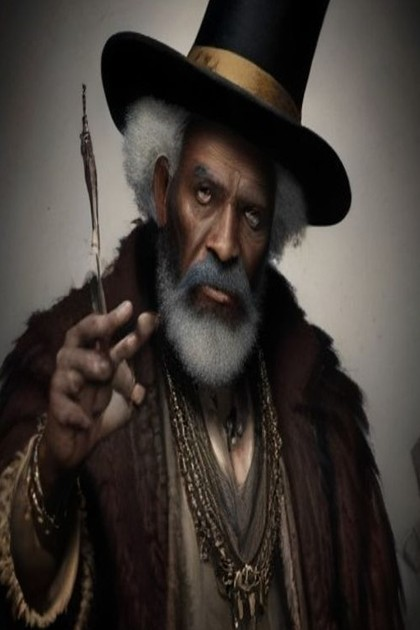
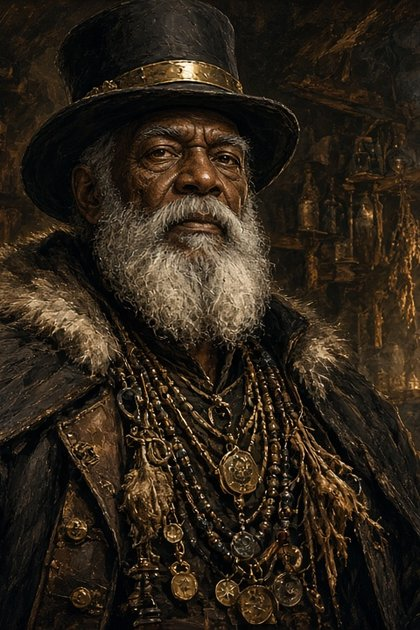
Rename High John to Papa John; upgrade card art
Papa John buffs allied powder rites while on the field:
Goofer Dust +2 damage; Hot-Foot Powder also deals 2.

diff --git a/src/game/effects.test.ts b/src/game/effects.test.ts
@@ -2,6 +2,7 @@ import { describe, expect, it } from 'vitest';
 import {
   actNeedsAim,
   resolveActivatedAbility,
+  resolveEffect,
   type EffectCtx,
   type EffectUnit,
 } from './effects';
@@ -349,5 +350,149 @@ describe('resolveActivatedAbility', () => {
     expect(ctx.units['b']).toBeUndefined();
     expect(ctx.units['wail']).toBeDefined();
     expect(ctx.loyalty.blue).toBe(0);
+  });
+});
+
+
+describe('Papa John powder synergy', () => {
+  it('Goofer Dust deals 3 without Papa John and 5 with allied Papa John', () => {
+    const dust = cardById('goofer_dust');
+    expect(dust?.effect?.op).toBe('smite');
+    expect(dust?.effect?.n).toBe(3);
+
+    const alone = baseCtx('blue');
+    place(
+      alone,
+      unit({
+        uid: 'foe',
+        cardId: 'fodder',
+        name: 'Fodder',
+        side: 'red',
+        power: 10,
+      }),
+      2,
+      2,
+    );
+    expect(
+      resolveEffect(alone, dust!.effect!, { id: dust!.id, name: dust!.name }, 'foe'),
+    ).toBeNull();
+    expect(alone.units['foe'].power).toBe(7);
+
+    const withJohn = baseCtx('blue');
+    place(
+      withJohn,
+      unit({
+        uid: 'john',
+        cardId: 'high_john',
+        name: 'Papa John',
+        side: 'blue',
+        power: 2,
+      }),
+      0,
+      0,
+    );
+    place(
+      withJohn,
+      unit({
+        uid: 'foe',
+        cardId: 'fodder',
+        name: 'Fodder',
+        side: 'red',
+        power: 10,
+      }),
+      2,
+      2,
+    );
+    expect(
+      resolveEffect(withJohn, dust!.effect!, { id: dust!.id, name: dust!.name }, 'foe'),
+    ).toBeNull();
+    expect(withJohn.units['foe'].power).toBe(5);
+  });
+
+  it('Hot-Foot Powder locks only without Papa John; with him also deals 2', () => {
+    const powder = cardById('hot_foot_powder');
+    expect(powder?.effect?.op).toBe('lock');
+
+    const alone = baseCtx('blue');
+    place(
+      alone,
+      unit({
+        uid: 'foe',
+        cardId: 'fodder',
+        name: 'Fodder',
+        side: 'red',
+        power: 6,
+      }),
+      2,
+      2,
+    );
+    expect(
+      resolveEffect(alone, powder!.effect!, { id: powder!.id, name: powder!.name }, 'foe'),
+    ).toBeNull();
+    expect(alone.units['foe'].sick).toBe(true);
+    expect(alone.units['foe'].powder).toBe(true);
+    expect(alone.units['foe'].power).toBe(6);
+
+    const withJohn = baseCtx('blue');
+    place(
+      withJohn,
+      unit({
+        uid: 'john',
+        cardId: 'high_john',
+        name: 'Papa John',
+        side: 'blue',
+        power: 2,
+      }),
+      0,
+      0,
+    );
+    place(
+      withJohn,
+      unit({
+        uid: 'foe',
+        cardId: 'fodder',
+        name: 'Fodder',
+        side: 'red',
+        power: 6,
+      }),
+      2,
+      2,
+    );
+    expect(
+      resolveEffect(withJohn, powder!.effect!, { id: powder!.id, name: powder!.name }, 'foe'),
+    ).toBeNull();
+    expect(withJohn.units['foe'].sick).toBe(true);
+    expect(withJohn.units['foe'].power).toBe(4);
+  });
+
+  it('enemy Papa John does not buff your powders', () => {
+    const dust = cardById('goofer_dust')!;
+    const ctx = baseCtx('blue');
+    place(
+      ctx,
+      unit({
+        uid: 'john',
+        cardId: 'high_john',
+        name: 'Papa John',
+        side: 'red',
+        power: 2,
+      }),
+      0,
+      0,
+    );
+    place(
+      ctx,
+      unit({
+        uid: 'foe',
+        cardId: 'fodder',
+        name: 'Fodder',
+        side: 'red',
+        power: 10,
+      }),
+      2,
+      2,
+    );
+    expect(resolveEffect(ctx, dust.effect!, { id: dust.id, name: dust.name }, 'foe')).toBeNull();
+    expect(ctx.units['foe'].power).toBe(7);
   });
 });

diff --git a/src/game/effects.ts b/src/game/effects.ts
@@ -183,6 +183,8 @@ function tide(ctx: EffectCtx, side: Side, sourceName: string) {
 export type EffectSpec = { op: string; n?: number };
 
 export type CardExtras = {
+  /** Catalog card id when resolving a cast rite/device (for synergies). */
+  id?: string;
   alsoDraw?: number;
   alsoBank?: number;
   alsoHealth?: number;
@@ -192,6 +194,13 @@ export type CardExtras = {
   name: string;
   aim?: boolean;
 };
+
+/** True when an allied high_john (Papa John) unit is on the board for `side`. */
+function hasAlliedPapaJohn(ctx: EffectCtx, side: Side): boolean {
+  return Object.values(ctx.units).some(
+    (u) => u.side === side && u.cardId === 'high_john' && !u.silenced,
+  );
+}
 
 /** Resolve a rite/device effect. Mutates ctx. Target optional when aim. */
 export function resolveEffect(
@@ -267,7 +276,12 @@ export function resolveEffect(
     case 'smite': {
       const err = needTarget();
       if (err) return err;
-      const dmg = dealTo(ctx, target!, n);
+      let smiteN = n;
+      if (card.id === 'goofer_dust' && hasAlliedPapaJohn(ctx, side)) {
+        smiteN = n + 2;
+        pushLog(ctx, `Papa John's root strengthens the dust.`);
+      }
+      const dmg = dealTo(ctx, target!, smiteN);
       pushLog(ctx, `${card.name} deals ${dmg} to ${target!.name}.`);
       if (target!.power <= 0) destroyUnit(ctx, target!.uid);
       break;
@@ -292,6 +306,12 @@ export function resolveEffect(
       const err = needTarget();
       if (err) return err;
       lockUnit(ctx, target!, side, 'cannot move or attack on its next rite.');
+      if (card.id === 'hot_foot_powder' && hasAlliedPapaJohn(ctx, side)) {
+        pushLog(ctx, `Papa John's root burns through the powder.`);
+        const dmg = dealTo(ctx, target!, 2);
+        pushLog(ctx, `${card.name} deals ${dmg} to ${target!.name}.`);
+        if (target!.power <= 0) destroyUnit(ctx, target!.uid);
+      }
       break;
     }
     case 'set_power': {

diff --git a/src/components/Battlefield.tsx b/src/components/Battlefield.tsx
@@ -1045,6 +1045,7 @@ export function Battlefield({
         ctx,
         card.effect,
         {
+          id: card.id,
           name: card.name,
           alsoDraw: card.alsoDraw,
           alsoBank: card.alsoBank,
